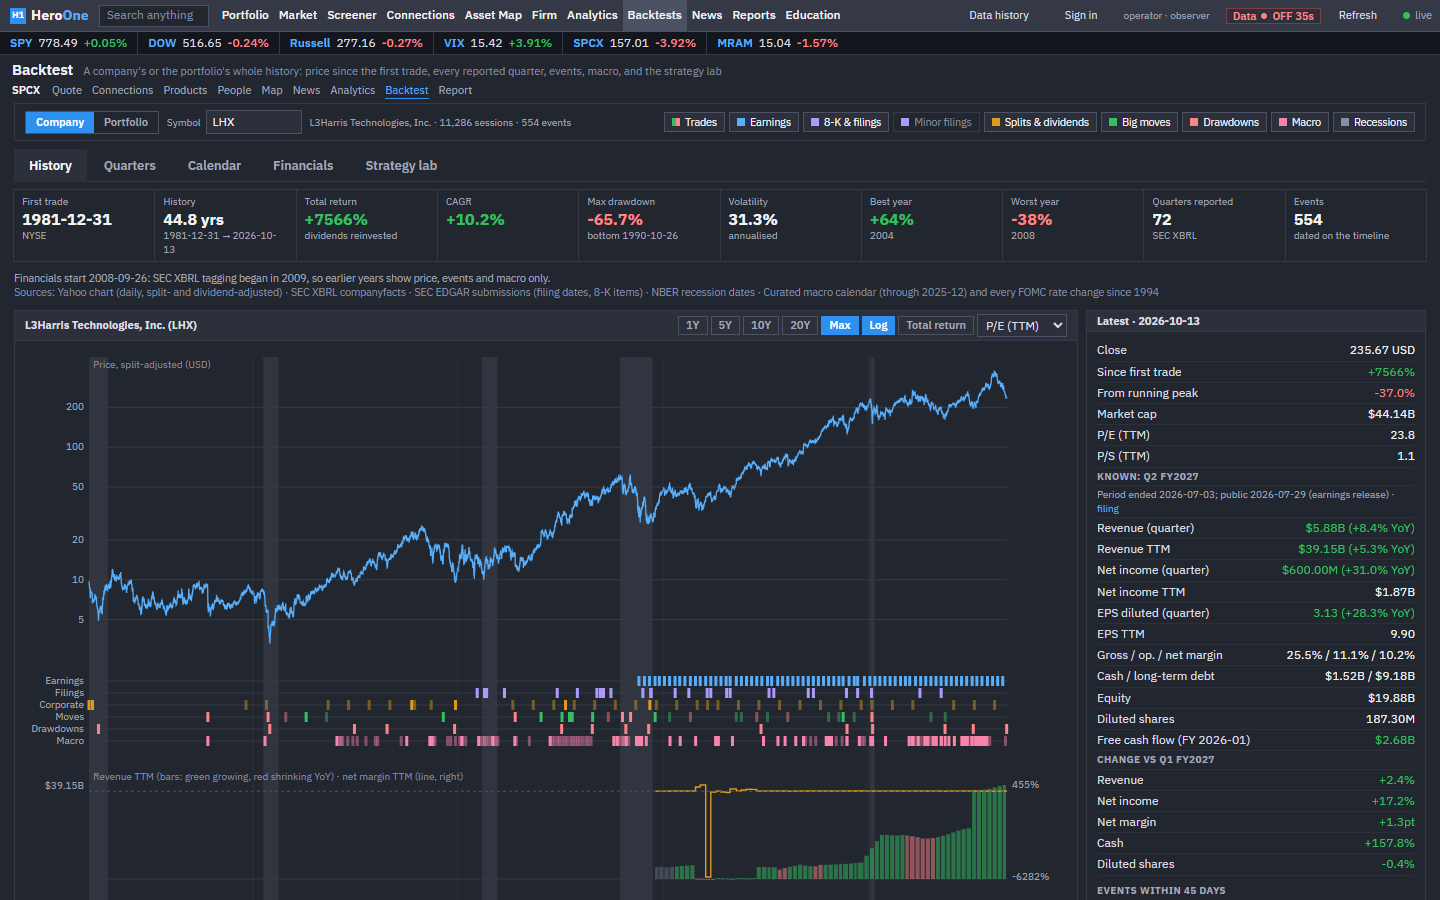
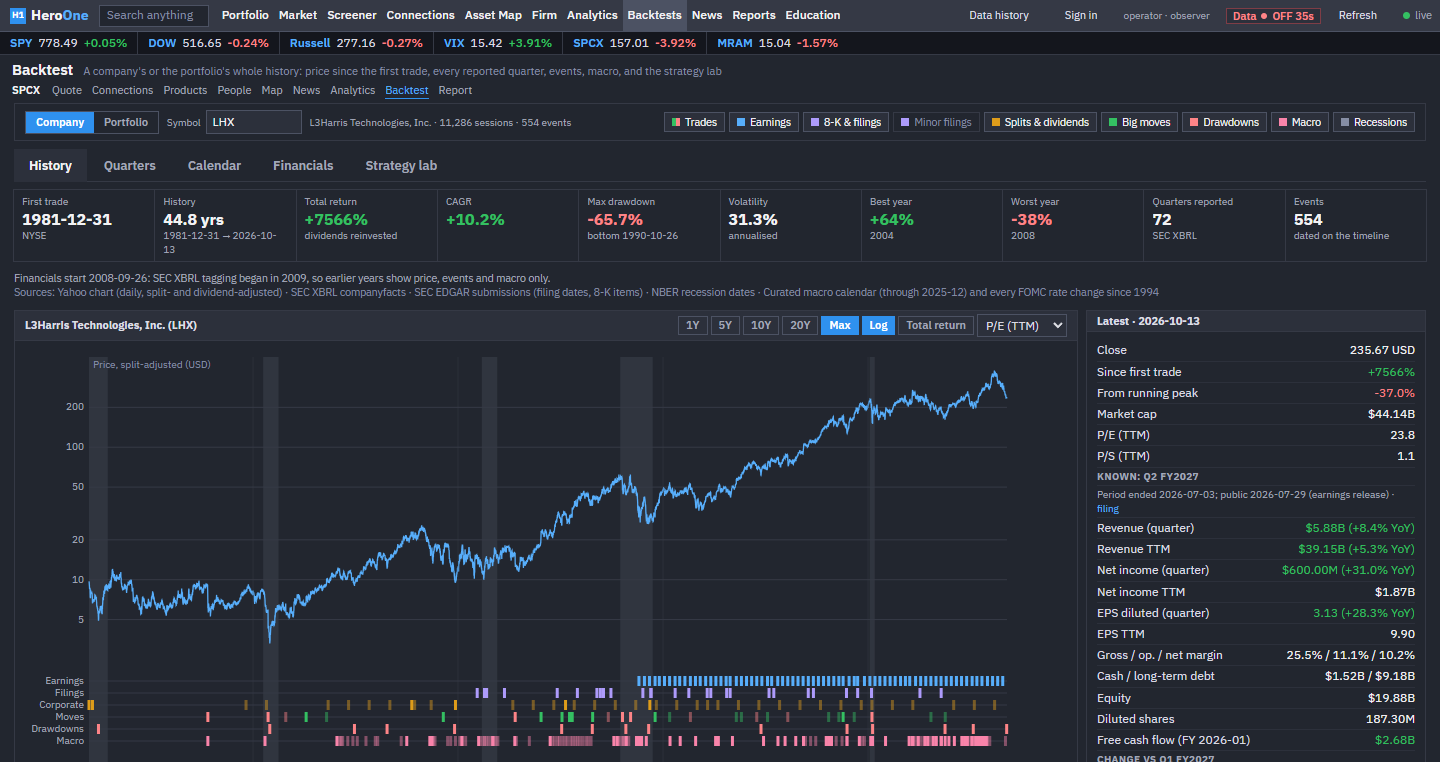
Refocus site on ER/financial analysis/quant, add link previews, trim content

diff --git a/index.html b/index.html
@@ -5,7 +5,15 @@
 <meta http-equiv="Content-Security-Policy" content="default-src 'self'; script-src 'self' 'unsafe-inline'; style-src 'self' 'unsafe-inline' https://fonts.googleapis.com; font-src https://fonts.gstatic.com; img-src 'self' data: blob:; media-src 'self'; connect-src 'self'; object-src 'none'; base-uri 'self'; form-action 'self'">
 <meta name="referrer" content="strict-origin-when-cross-origin">
 <meta name="viewport" content="width=device-width, initial-scale=1">
-<title>Portfolio</title>
+<title>Denver Lo — Equity Research Candidate, U.S. Marine and Builder of His Own Research Tools</title>
+<!-- static on purpose: link previews (LinkedIn, email, Slack) don't run the script that fills the page -->
+<meta name="description" content="Finance graduate and U.S. Marine Corps veteran pursuing equity research, financial analysis and quantitative roles. Builds his own Python research and backtesting tools.">
+<meta property="og:type" content="website">
+<meta property="og:url" content="https://drlo-hero.github.io/">
+<meta property="og:title" content="Denver Lo — Equity Research Candidate">
+<meta property="og:description" content="Finance graduate and U.S. Marine Corps veteran pursuing equity research, financial analysis and quantitative roles. Builds his own Python research and backtesting tools.">
+<meta property="og:image" content="https://drlo-hero.github.io/media/hero-one-backtest.png">
+<meta name="twitter:card" content="summary_large_image">
 <link rel="preconnect" href="https://fonts.googleapis.com">
 <link rel="preconnect" href="https://fonts.gstatic.com" crossorigin>
 <link href="https://fonts.googleapis.com/css2?family=Bricolage+Grotesque:opsz,wght@12..96,400..800&display=swap" rel="stylesheet">
@@ -432,6 +440,7 @@ function render(c) {
   });
 
   if (c.about_video) $("aboutMedia").append(clip(c.about_video));
+  else { $("aboutMedia").remove(); $("about").style.display = "block"; }  // no video or photo yet: no empty box
   $("aboutText").append(...c.about.map(t => el("p", "", t)));
   $("expertise").append(...c.expertise.map(t => el("li", "", t)));
   const list = items => { const u = el("ul"); u.append(...items.map(t => el("li", "", t))); return u; };
